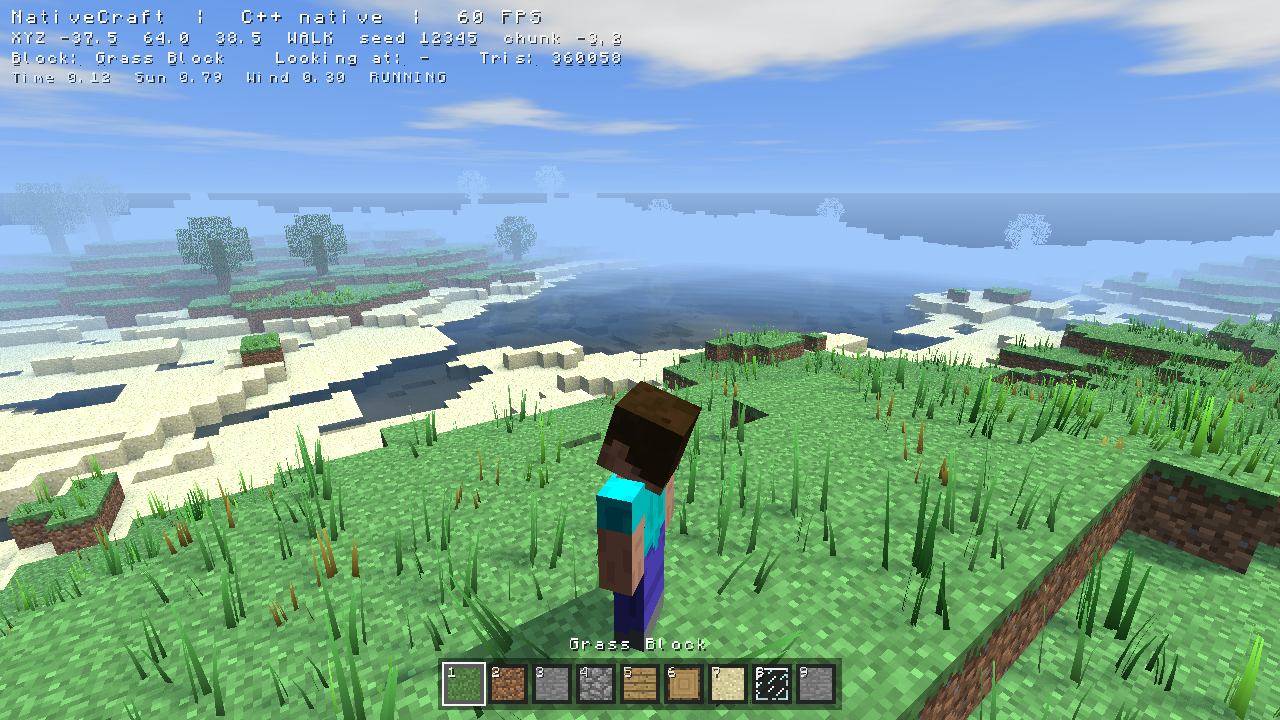
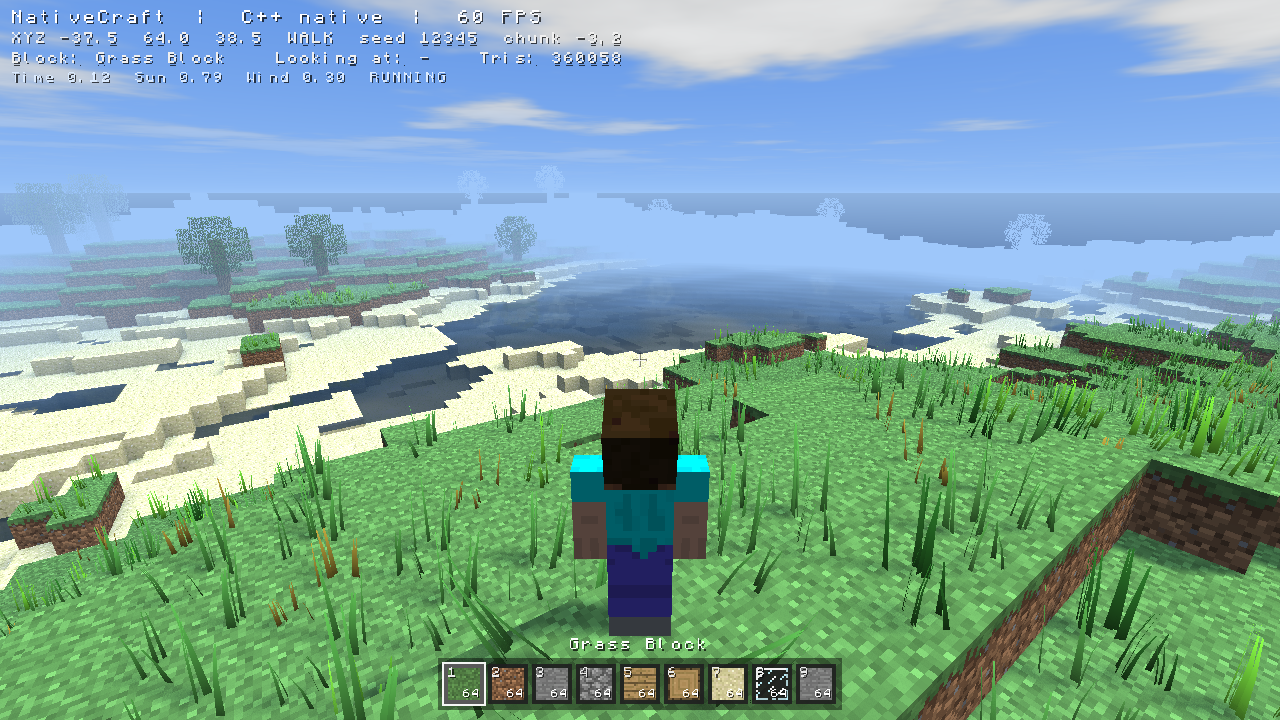
Fix player model facing direction

Changed region(s): [[0.3438, 0.5194, 0.5625, 0.9167], [0.3125, 0.9167, 0.3438, 0.9472], [0.2812, 0.9472, 0.3125, 0.9778]]

diff --git a/src/render/PlayerRenderer.cpp b/src/render/PlayerRenderer.cpp
@@ -275,7 +275,7 @@ std::array<Mat4, PlayerRenderer::PartCount> PlayerRenderer::buildPartMatrices(
     const PlayerRenderState& state) const {
     const float bob = std::sin(state.walkPhase * 2.0f) * 0.018f * state.walkAmount;
     const Mat4 base = Mat4::translation(state.position + Vec3{0.0f, bob, 0.0f})
-                    * Mat4::rotationY(radians(state.bodyYaw))
+                    * Mat4::rotationY(radians(-state.bodyYaw))
                     * Mat4::scale(0.9f);
 
     float swing = std::sin(state.walkPhase) * 0.7f * state.walkAmount;
